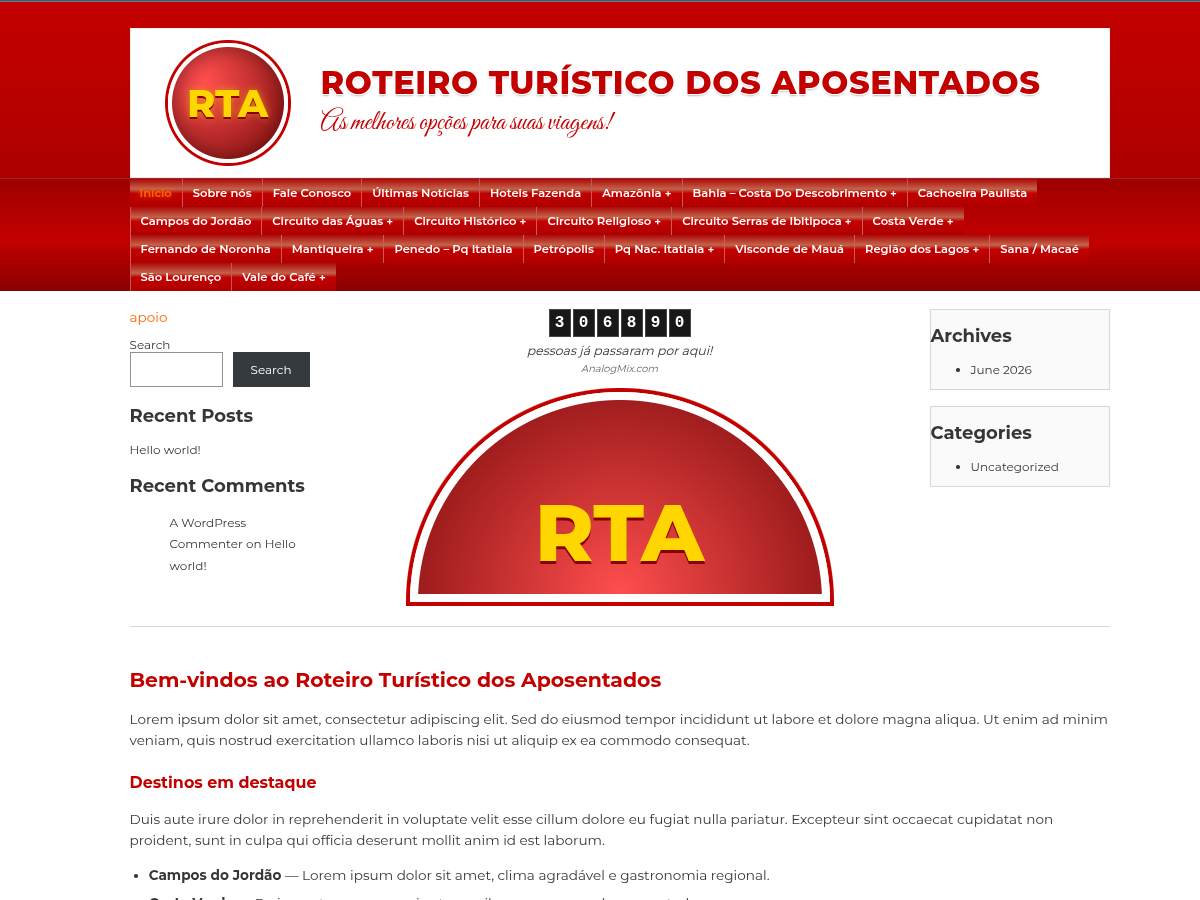
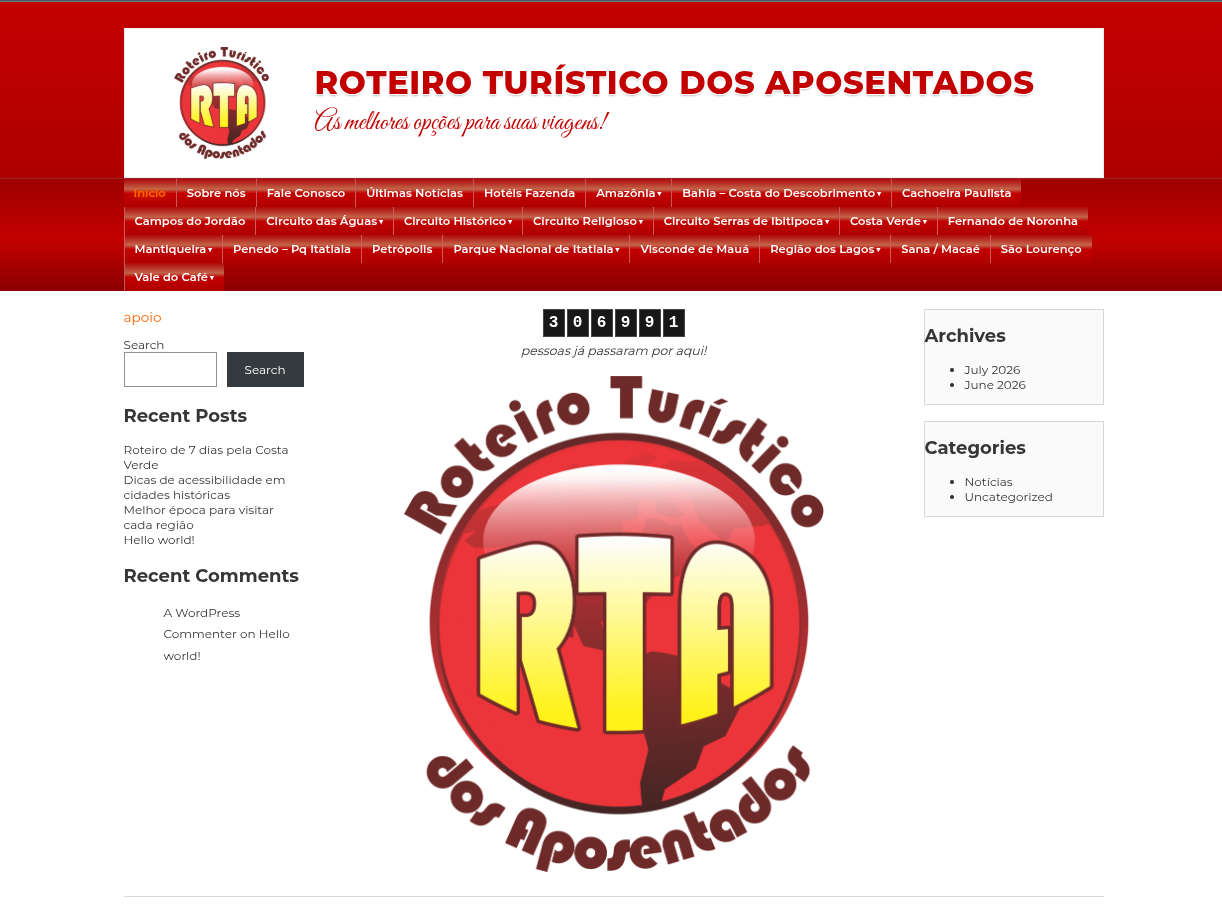
Fix grid overflow on mobile; add off-canvas drawer menu
- Add min-width:0 + overflow-wrap:break-word to grid items (sidebar-left,
  center, sidebar-right) to prevent widget content overflow on narrow screens
- Changelog updated with Sessão 4 entries

Changed region(s): [[0.0, 0.0311, 1.0, 1.0]]

diff --git a/wp-content/themes/rta-wordpress-theme/style.css b/wp-content/themes/rta-wordpress-theme/style.css
@@ -744,6 +744,13 @@ img {
     grid-template-columns: 1fr;
   }
 
+  .rta-sidebar-left,
+  .rta-center,
+  .rta-sidebar-right {
+    min-width: 0;
+    overflow-wrap: break-word;
+  }
+
   /* Search widget: prevent button overflow on narrow screens */
   .widget_search .wp-block-search__inside-wrapper {
     flex-wrap: wrap;

diff --git a/CHANGELOG.md b/CHANGELOG.md
@@ -1,5 +1,20 @@
 # Changelog
 
+## 02/07/2026 (Sessão 4) — Menu responsivo off-canvas + Grid mobile
+
+### Adicionado
+- **Drawer off-canvas**: hamburger abre/fecha drawer lateral com overlay, swipe gesture, submenus toggle no mobile
+- **Header.php**: botão `.rta-menu-toggle` + `<div id="rta-nav-drawer">` + overlay
+- **navigation.js**: drawer toggle, swipe (touch/pointer), submenu toggle, escape key, resize auto-close
+- **Admin bar**: z-index do drawer e hamburger acima do admin bar (99999) quando logado
+- **Bind mounts nginx**: `wp-content/{themes,plugins,uploads,languages}` no container nginx para servir estáticos
+
+### Fix
+- **Drawer invisível**: z-index do drawer (999) estava abaixo do admin bar (99999) — corrigido para 100001
+- **Header mobile**: `.rta-header__inner` agora `width: 100%` (sem gaps laterais) em ≤1024px
+- **Search widget**: botão não transbordava — `flex-wrap: wrap` + `margin-left: 0`
+- **Grid mobile**: `min-width: 0` nos grid items (`sidebar-left`, `center`, `sidebar-right`) para evitar overflow do conteúdo dos widgets quando a tela é estreita
+
 ## 01/07/2026 (Sessão 3) — Docker nginx + MariaDB 10.11 latin1 + Homepage real
 
 ### Alterado